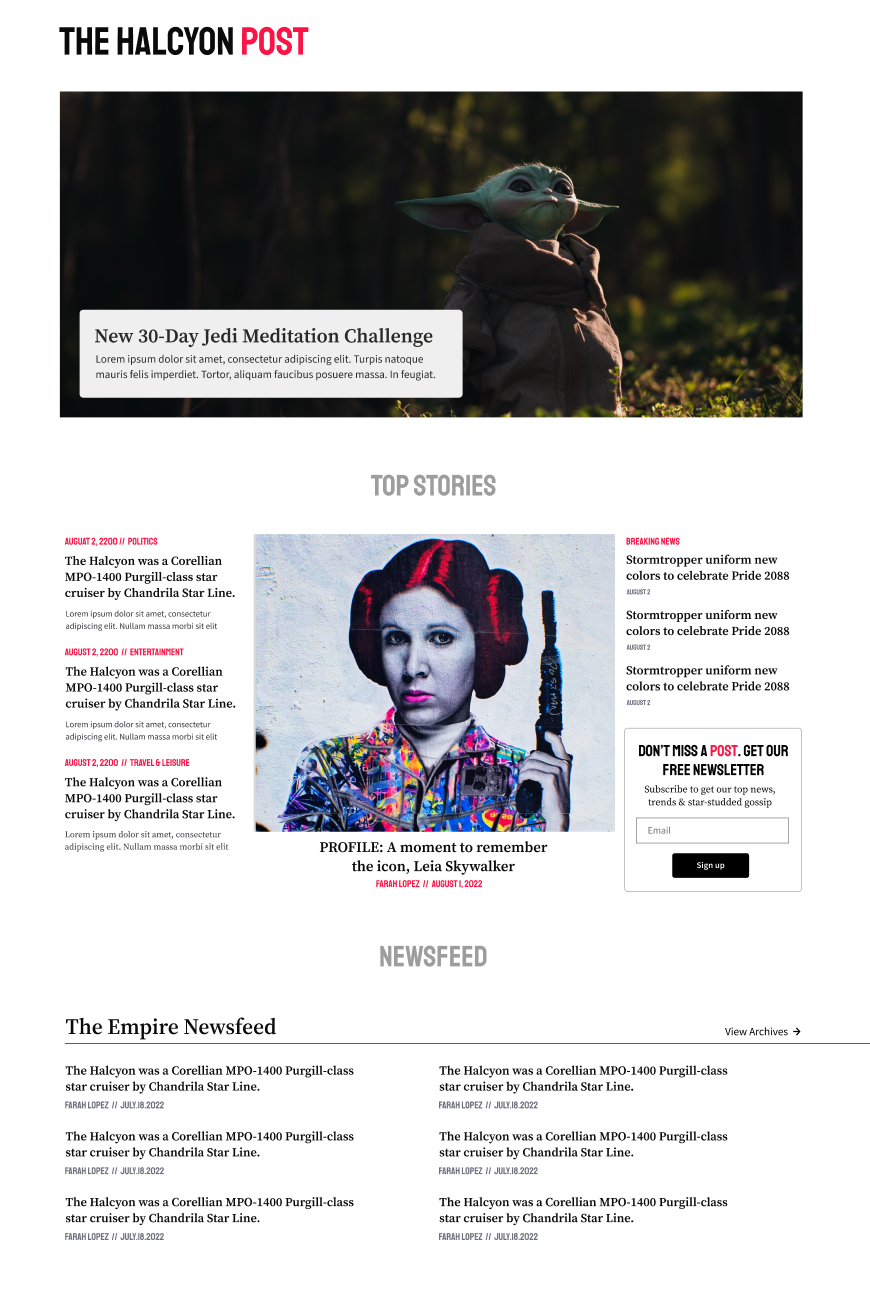
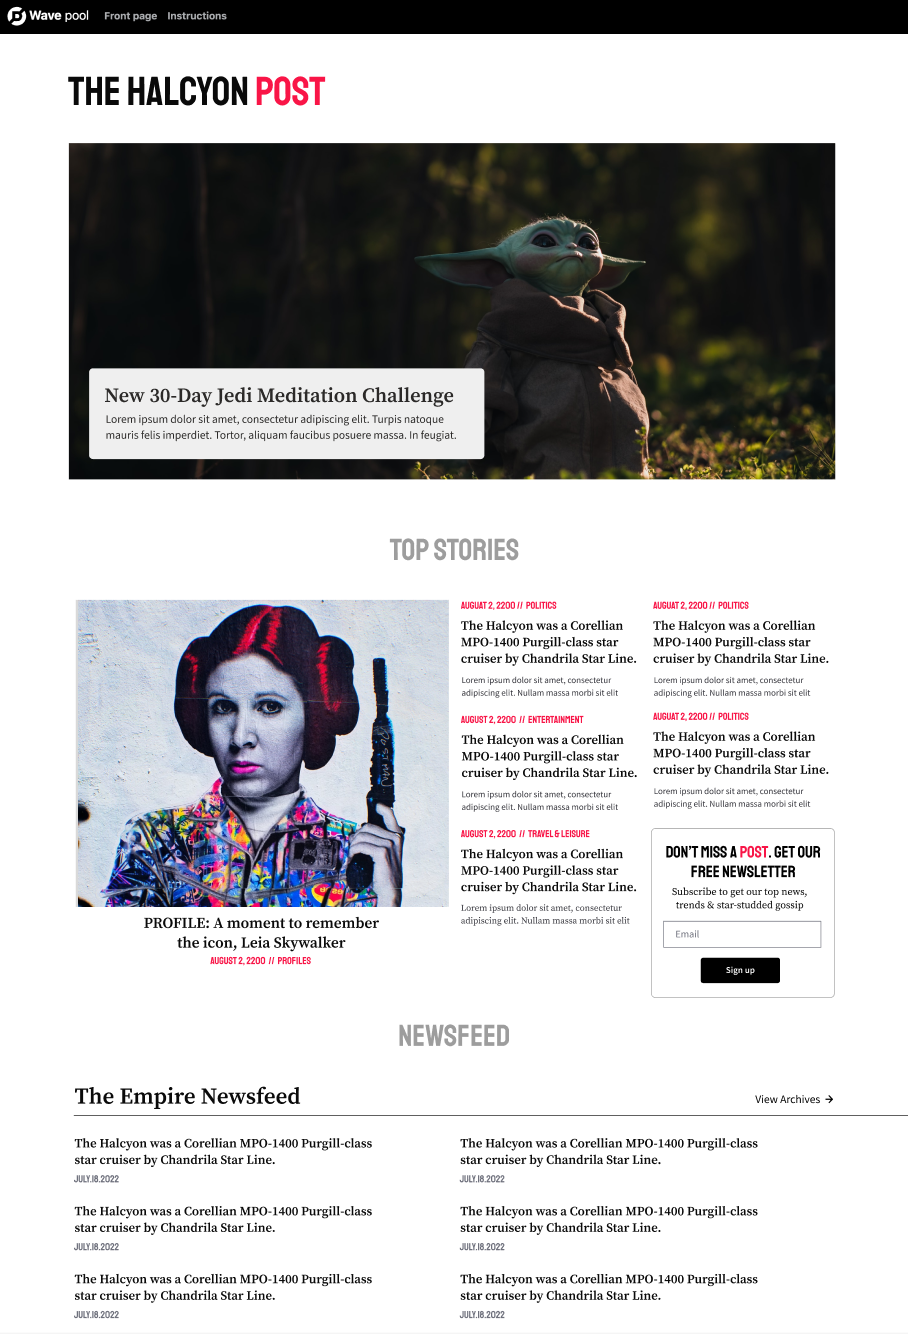
Adding description

diff --git a/apps/wavepool/code_exercise_defs.py b/apps/wavepool/code_exercise_defs.py
@@ -138,8 +138,8 @@ code_prompts = [
     {
         'title': 'Update the design of the homepage',
         'description': '''
-            <p>The description will go here.</p>
-            <p>You can find the Figma mocks at <a href="https://www.figma.com/file/Pubxjh6UPRotdVPfN9Wsnr/Wave-Pool-Redesign?node-id=17%3A100">this link</a>, with the password "starwars."</p>
+            <p>The publication has seen a decline in viewership and newsletter subscriptions. The editorial team has decided to go in a different direction with the company brand and has requested a redesign of its homepage. There are two possible design directions to take the publication, The Halcyon Post or the Tatooine Explorer. It's up to you to select the new design and implement it to help the company get back on track.<p>
+            <p>You can find the Figma mocks at <a href="https://www.figma.com/file/tb71FBGptjnOA8keT8Kw8S/Wave-Pool-%5BLocked%5D?node-id=0%3A1">this link</a>, with the password "starwars."</p>
         ''',
         'acceptance_criteria': [
             'The correct typefaces are served to the page (these can be found in the fonts folder)',
